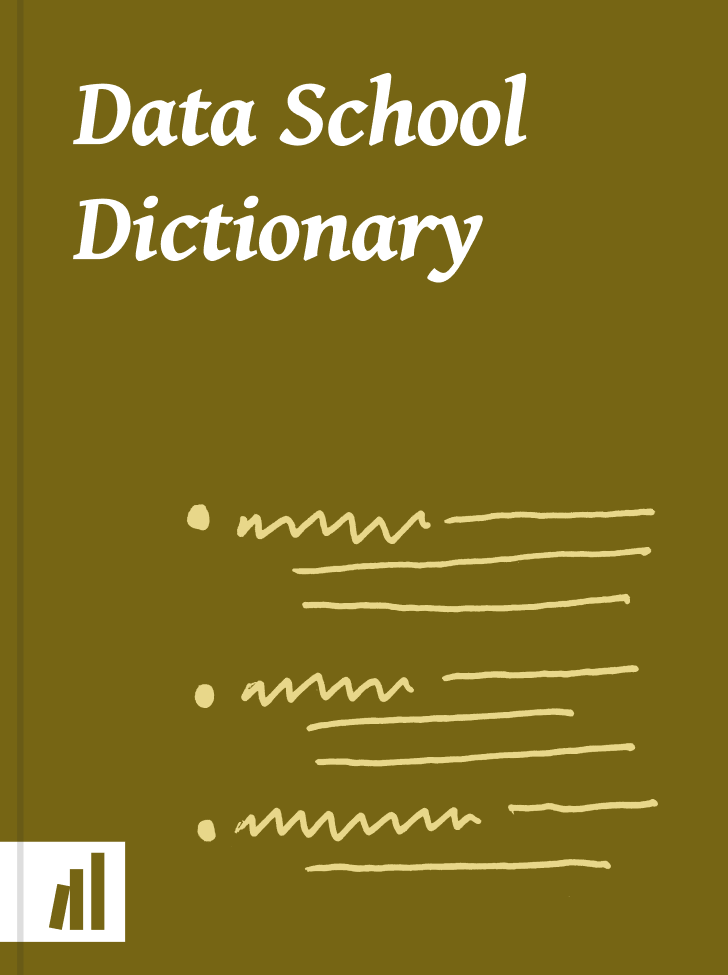
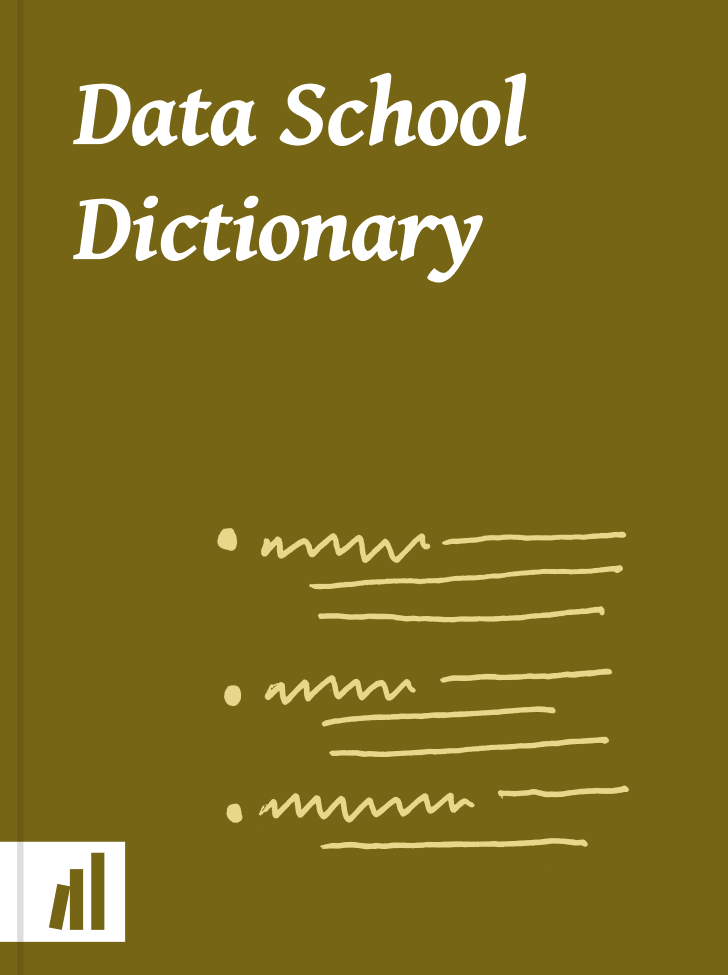
updating header sizes to be more dramatic and rotating covers

Changed region(s): [[0.272, 0.6769, 0.9066, 0.8923], [0.2418, 0.5231, 0.9066, 0.6462]]

diff --git a/dataschool/_sass/_base.scss b/dataschool/_sass/_base.scss
@@ -49,16 +49,21 @@ h1.mega-title, h1.title {
   // margin-bottom: 3rem;
 }
 h1.mega-title {
-  font-size: 2.986em;
+  // font-size: 2.986em;
+  font-size: 4.209em;
   font-style: italic;
 }
-h1.title {font-size: 2.488em;}
+// h1.title {font-size: 2.488em;}
+h1.title {font-size: 3.157em;}
 h1 {
   margin-top: 0;
-  font-size: 2.074em;
+  // font-size: 2.074em;
+  font-size: 2.369em;
 }
-h2, p.faux-header {font-size: 1.728em;}
-h3 {font-size: 1.22em;}
+// h2, p.faux-header {font-size: 1.728em;}
+h2, p.faux-header {font-size: 1.77em;}
+// h3 {font-size: 1.22em;}
+h3 {font-size: 1.33em;}
 h4 {font-size: 1.0em;}
 h5 {font-size: .8em; font-style: italic;}
 h6 {font-size: 0.833em; text-transform: uppercase;}
@@ -154,7 +159,7 @@ section.page-wide {
   padding: 3rem 0 0;
 }
 article, .home-hero {
-  font-size: 1.2em;
+  font-size: 1.33em;
 }
 article {
   margin-bottom: 2rem;

diff --git a/dataschool/_includes/navigation.html b/dataschool/_includes/navigation.html
@@ -14,7 +14,7 @@
     {% assign book = book[0] %}
     <div class="book-title-links">
       <a href="{{ book.url }}" class="smallbook-link hover-link">
-        <img src="{{ book.cover_image }}" alt="Cover of {{book.title}}" class="smallbook hover-img">
+        <img src="{{ book.thumbnail_cover_image }}" alt="Cover of {{book.title}}" class="smallbook hover-img">
       </a>
       <div>
         <a href="{{ book.url }}" class="book-title">{{ book.title }}</a>

diff --git a/dataschool/_layouts/book.html b/dataschool/_layouts/book.html
@@ -9,7 +9,7 @@ layout: default-wide
     <img src="{{ page.cover_image }}" alt="Cover of {{page.title}}" class="">
   </div>
   <div class="col-sm-8">
-    <h1 class="mega-title">{{ page.title }}</h1>
+    <h1 class="title">{{ page.title }}</h1>
     <p>
       Written by:
       {% for author_path in page.authors %}

diff --git a/dataschool/_sass/_components.scss b/dataschool/_sass/_components.scss
@@ -30,6 +30,7 @@
   align-items: center;
   justify-content: center;
   height: 100%;
+  transform: rotate(4deg);
   img {
     box-shadow: 2px 2px 10px 0 rgba(0,0,0,.2), 0 4px 25px 0 rgba(0,0,0,.2);
     width: 100%;

diff --git a/dataschool/index.md b/dataschool/index.md
@@ -9,13 +9,13 @@ description: A community driven school to help people create data driven organiz
 <div class="home-hero">
 <div class="container centered">
 <div class="row">
-<div class="col-sm-12 col-md-6 mt-4">
-<h1 class="mega-title">Welcome to <img class="logo" src="/assets/images/chartio-data-school-logo.svg" alt="Data School logo"> </h1>
+<div class="col-sm-12 col-md-7 col-sm-6 mt-4">
+<img class="logo mb-1" src="/assets/images/chartio-data-school-logo.svg" alt="Data School logo">
 <p>We're a community-driven school of free web books and content written by people who work with data <em>for</em> people who work with data.</p>
 <p>To get started check out <a href="/mission/">our mission</a>, see <a href="/people/" class="link-6">who's involved</a> or dig into our completely free and growing <a href="/books/">content library</a> of web books.</p>
 <a href="/books/" class="btn btn-primary mt-3">Browse Our Web Books <i class="fas fa-arrow-right"></i></a>
 </div>
-<div class="col-sm-12 col-md-5 offset-md-1">
+<div class="col-sm-12 col-md-4 col-sm-5 offset-md-1">
 <div class="book-cover">
 <h5 class="mt-3">This month's featured web book</h5>
 {% assign book = site.books | where:'is_featured', 'true' %}

diff --git a/dataschool/_chapters/data-governance/source-data-tools.md b/dataschool/_chapters/data-governance/source-data-tools.md
@@ -24,14 +24,14 @@ Modern businesses generate tons of data. Product information, customer informati
 
 This stage is ideal for new companies or teams with minimal data needs.  It is inexpensive and relatively easy to tool, implement, and maintain.  It is sometimes exciting to build out a sophisticated data stack, but be sure to start here and check that it doesn't satisfy your needs before moving on - as over-engineering is a costly mistake.
 
-### This stage is right for you if
+## This stage is right for you if
 
  - You have a small team with only a few people using data
  - You have minimal data needs at the moment
  - You only have data in a few small sources
  - The only people who need to make new visuals are fairly technical
 
-### You've outgrown this stage if
+## You've outgrown this stage if
 
  - You have data you need access to in multiple places/applications
  - You need unique or combined charts/dashboards for cloud application sources like SalesForce

diff --git a/dataschool/_books/misrepresenting-data.md b/dataschool/_books/misrepresenting-data.md
@@ -6,6 +6,7 @@ description: Learn what the most common analysis mistakes are and how to avoid t
 book_slug: misrepresenting-data
 authors: _people/matt.md
 cover_image: "/assets/images/book-covers/misrepresenting-data.png"
+thumbnail_cover_image: "/assets/images/book-covers/misrepresenting-data@thumbnail.png"
 image: "/assets/images/book-covers/social-misrepresenting-data.png"
 main_color: ''
 reviewers: _people/blake.md

diff --git a/dataschool/_books/sql-optimization.md b/dataschool/_books/sql-optimization.md
@@ -5,6 +5,7 @@ description: Learn SQL techniques to improve query speed and data warehouse perf
 book_slug: sql-optimization
 authors: _people/matt.md
 cover_image: "/assets/images/book-covers/sql-optimization.png"
+thumbnail_cover_image: "/assets/images/book-covers/sql-optimization@thumbnail.png"
 image: "/assets/images/book-covers/social-sql-optimize.png"
 main_color: ''
 is_featured: false

diff --git a/dataschool/_books/fundamentals-of-analysis.md b/dataschool/_books/fundamentals-of-analysis.md
@@ -7,6 +7,7 @@ book_sort_number: 1
 authors: _people/matt.md
 reviewers: _people/dave.md
 cover_image: "/assets/images/book-covers/fundamentals-of-analysis.png"
+thumbnail_cover_image: "/assets/images/book-covers/fundamentals-of-analysis@thumbnail.png"
 image: "/assets/images/book-covers/social-analysis-fundamentals.png"
 main_color: "#75185C"
 is_featured: false

diff --git a/dataschool/_books/how-to-design-a-dashboard.md b/dataschool/_books/how-to-design-a-dashboard.md
@@ -8,6 +8,7 @@ book_sort_number: 1
 authors: _people/matt.md
 reviewers: _people/tim.md
 cover_image: "/assets/images/book-covers/how-to-design-a-dashboard.png"
+thumbnail_cover_image: "/assets/images/book-covers/how-to-design-a-dashboard@thumbnail.png"
 image: "/assets/images/book-covers/social-design-dashboard.png"
 main_color: "#145776"
 status: released

diff --git a/dataschool/_books/how-to-teach-people-sql.md b/dataschool/_books/how-to-teach-people-sql.md
@@ -8,6 +8,7 @@ book_sort_number: 1
 authors: _people/matt.md
 reviewers: _people/blake.md
 cover_image: "/assets/images/book-covers/how-to-teach-people-sql.png"
+thumbnail_cover_image: "/assets/images/book-covers/how-to-teach-people-sql@thumbnail.png"
 image: "/assets/images/book-covers/social-teach-sql.png"
 main_color: "#147638"
 is_featured: false

diff --git a/dataschool/_books/data-governance.md b/dataschool/_books/data-governance.md
@@ -14,6 +14,7 @@ authors:
 - _people/aaron-aihini.md
 reviewers: _people/twange-kasoma.md
 cover_image: "/assets/images/book-covers/data-governance.png"
+thumbnail_cover_image: "/assets/images/book-covers/data-governance@thumbnail.png"
 image: "/assets/images/book-covers/social-data-governance.png"
 main_color: "#143676"
 is_featured: true
